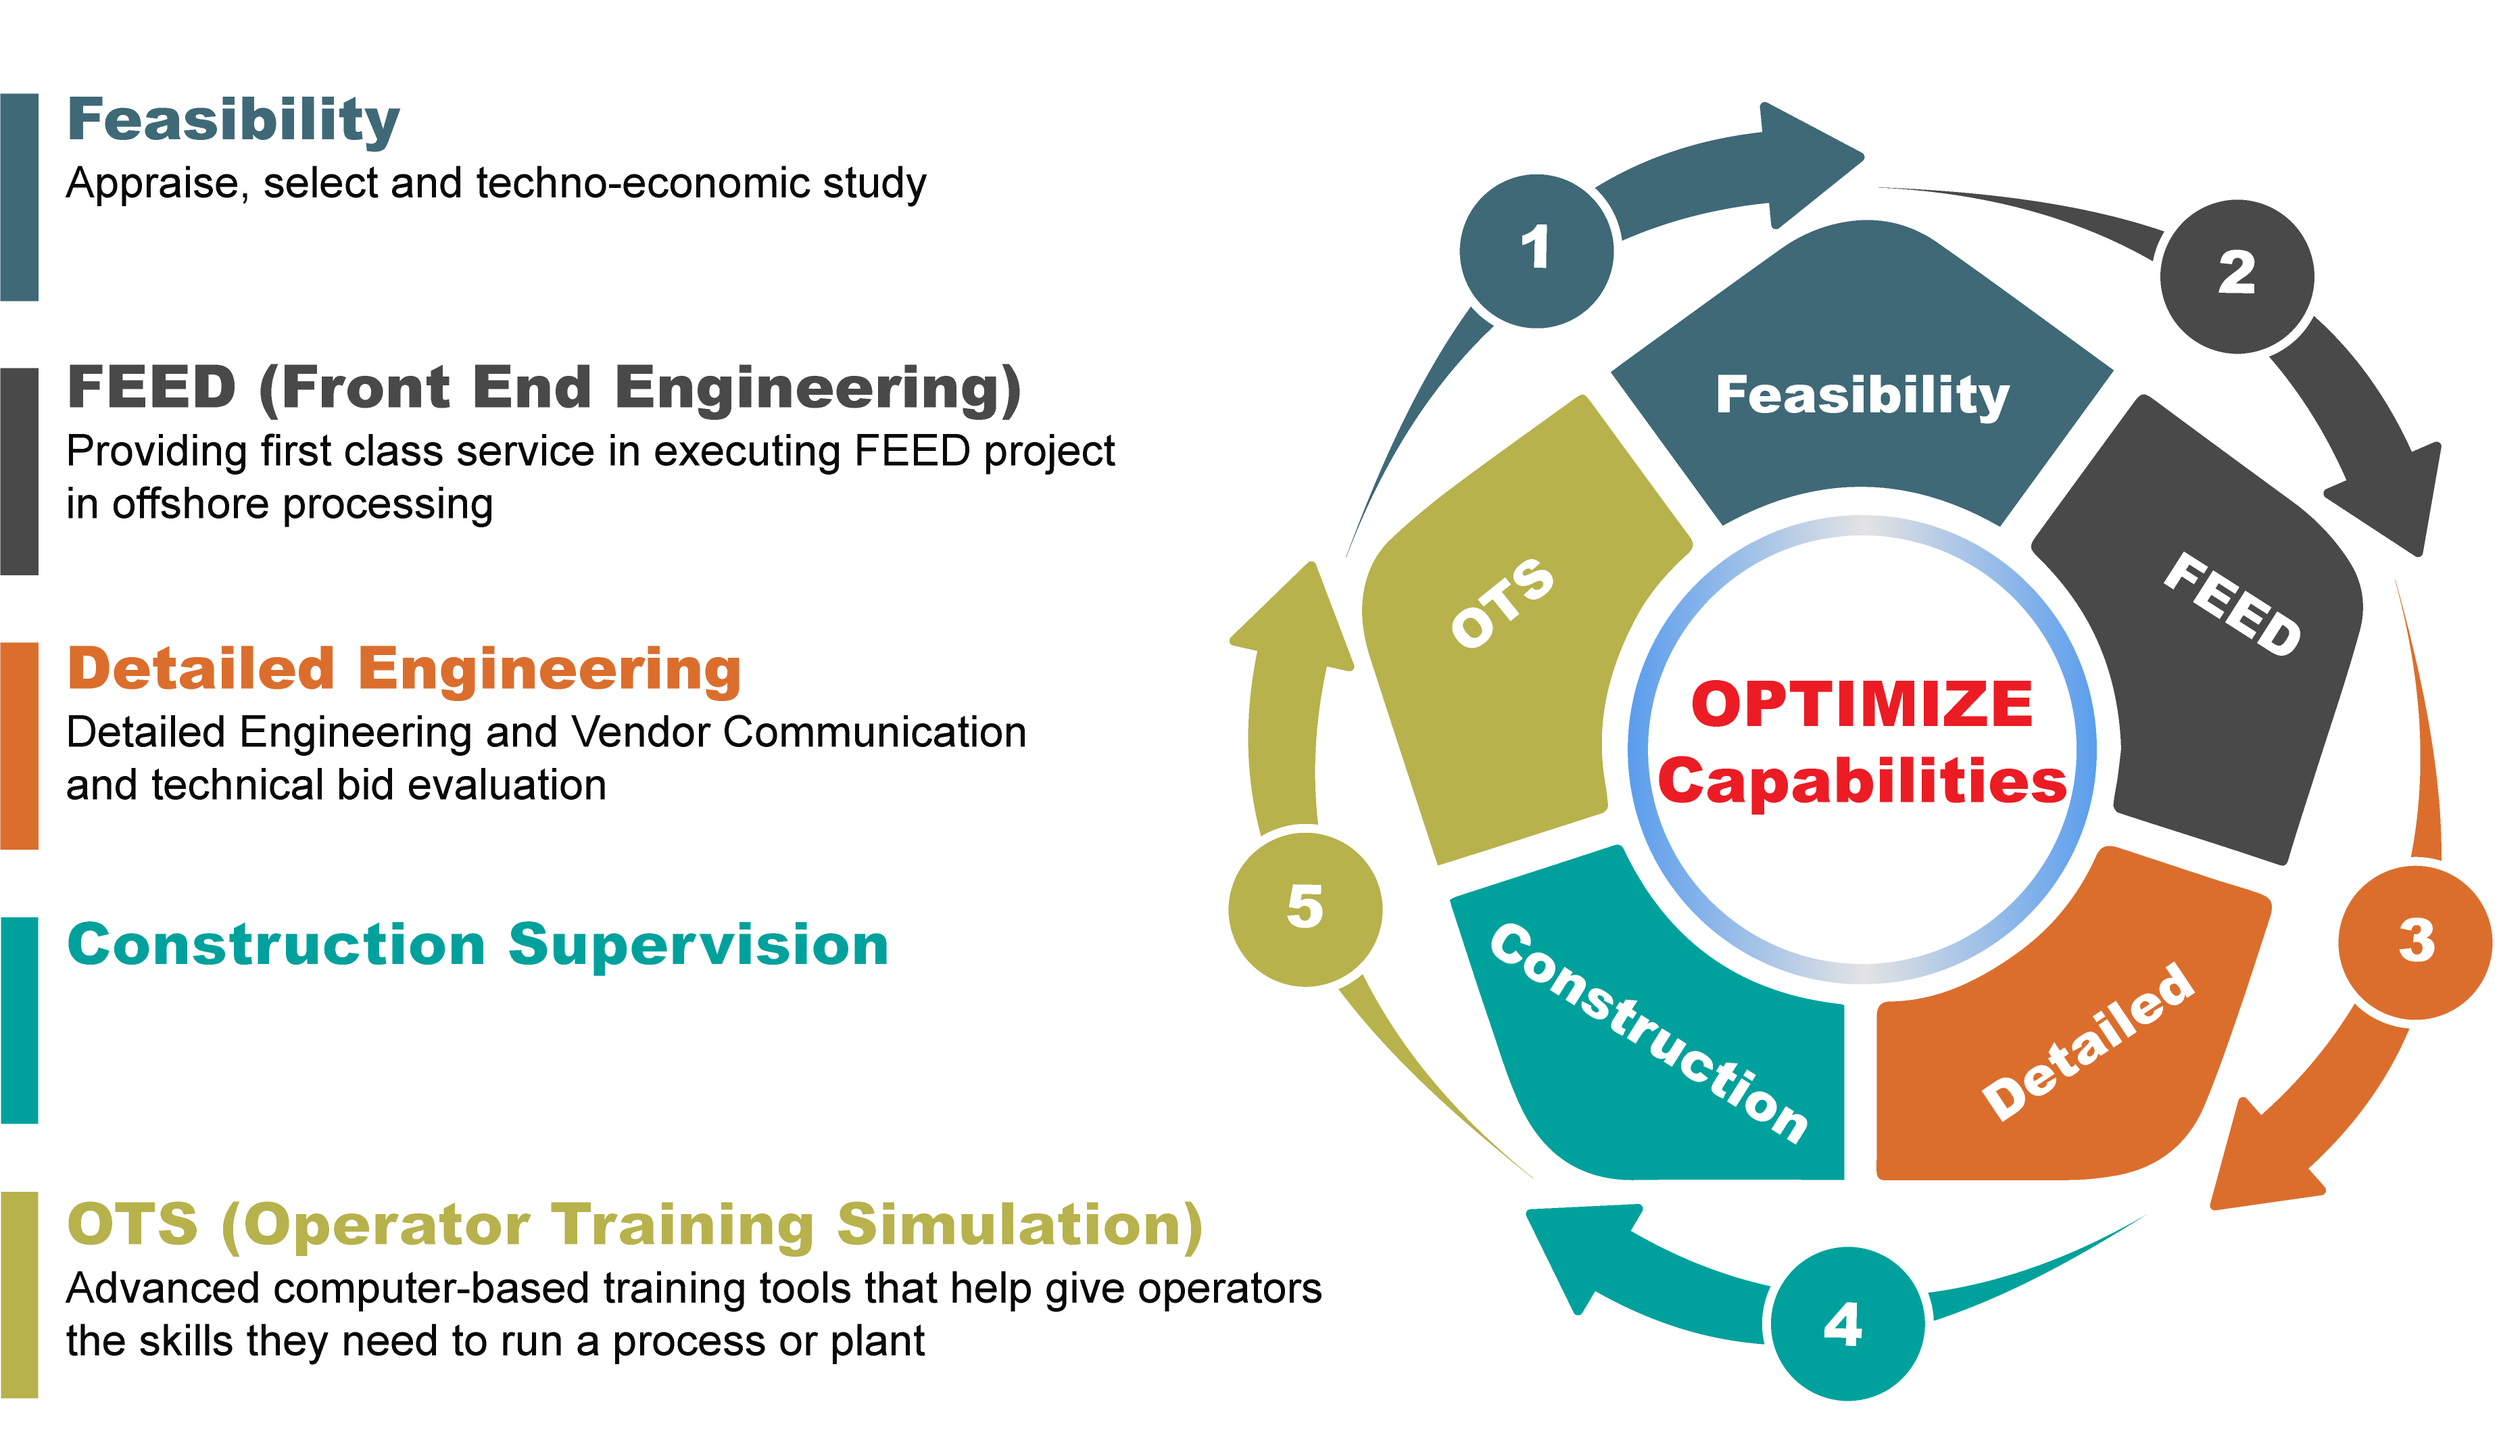
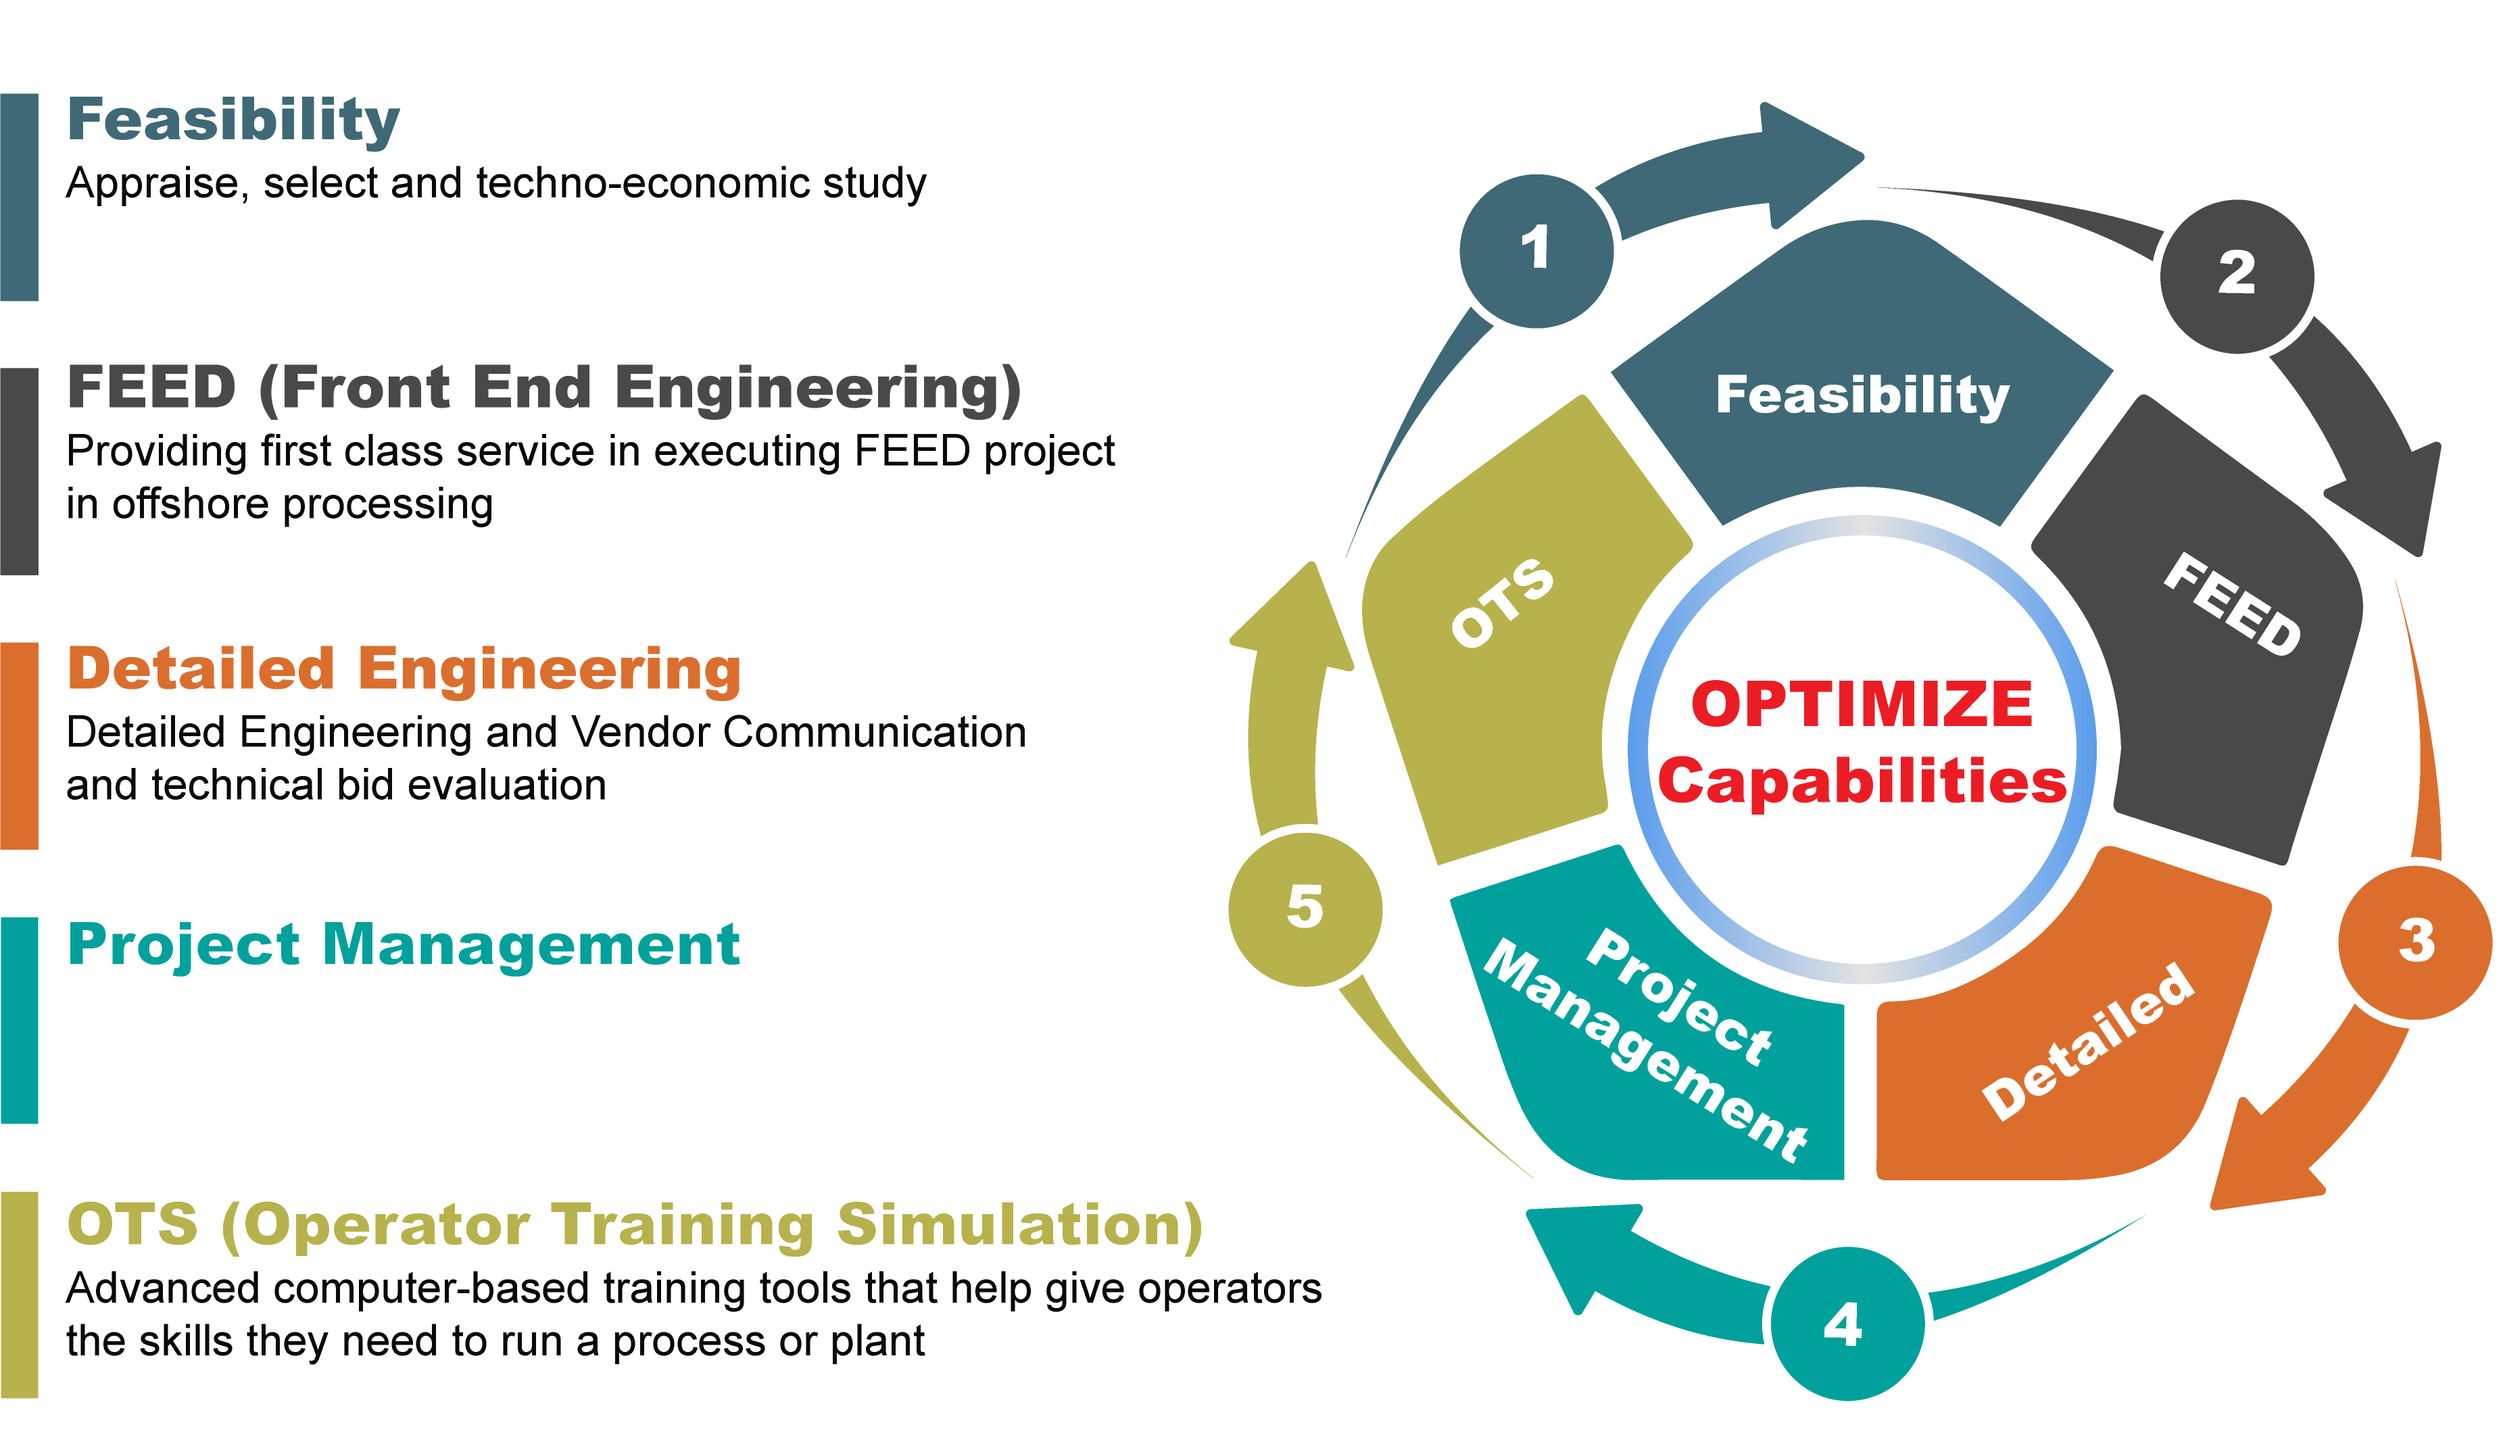
Emad Comments

Changed region(s): [[0.0311, 0.6162, 0.3733, 0.6779], [0.591, 0.6471, 0.7466, 0.8011]]

diff --git a/src/components/capabilities/Capabilities.js b/src/components/capabilities/Capabilities.js
@@ -48,7 +48,7 @@ export const Capabilities = (props) => (
         </Row>
         <Title titleType='sub-title' title='Feasibility' border='title-border' />
         <p className='capabilities-sub-title'>Machine Learning and Data Science</p>
-        <p className='capabilities-text'>OPTIMIZE Engineering with KAGERA has the capabilities to provide an integrated ML (Machine Learning) solutions. This bilateral cooperation entails data analytics, developing predictive models, deep learning and apply machine learning methods in oil and gas industry.</p>
+        <p className='capabilities-text'>OPTIMIZE Engineering with Kageera has the capabilities to provide an integrated ML (Machine Learning) solutions. This bilateral cooperation entails data analytics, developing predictive models, deep learning and apply machine learning methods in oil and gas industry.</p>
         <TextWithArrow text='Advanced and dynamic modeling using ML (Machine Learning) tools.' />
         <TextWithArrow text='Refinery Linear Programming for the best return of investment using GEKKO Dynamics.' />
         <TextWithArrow text='Applying Machine Learning algorithm on production facilities to improve and optimize the operating conditions and predict the potential downtime.' />
@@ -84,7 +84,7 @@ export const Capabilities = (props) => (
         <p className='capabilities-sub-title'>Detailed Engineering and Vendor Communication and technical bid evaluation</p>
         <p className='capabilities-text'>OPTIMIZE has the capabilities to technically evaluate vendors’ bid and assist the customer to make right decision for the most viable engineering options. OPTIMIZE process work flow in Detailed Engineering phase has been always appreciated from our customers.</p>
         <img src={detailed} alt='OPTIMIZE_Capabilities' />
-        <Title titleType='sub-title' title='Construction Supervision' border='title-border' />
+        <Title titleType='sub-title' title='Project Management' border='title-border' />
         <TextWithArrow text='OPTIMIZE supports the construction plans throughout the full lifecycle of the project to yield the greatest possible benefits to our customers.' />
         <TextWithArrow text='OPTIMIZE helps customers realize the maximum value of their project delivery by converting high-potential value options identified in the conceptual phase into fully defined, safe and successfully executed ones.' />
         <Title titleType='sub-title' title='OTS' border='title-border' />

diff --git a/src/components/services/ServicesContent/ServicesContent.js b/src/components/services/ServicesContent/ServicesContent.js
@@ -177,20 +177,8 @@ export const ServicesContent = props => {
           <TextWithArrow text='Inspection &amp; testing of equipment.' />
           <TextWithArrow text='Configuration management.' />
           <TextWithArrow text='Contract interface management.' />
-          <TextWithArrow text='Maintenance.' />
-          <TextWithArrow text='Construction and Completion.' />
-          <TextWithArrow text='Plant start-up and testing.' />
-          <TextWithArrow text='Plant operations.' />
-          <TextWithArrow text='Enabling cooperation among all participants in the project, OPTIMIZE employs proven, effective project management tools to control the project consistent with plan.' />
+          
 
-      {/* Supervision Level 4    */}
-        <p id='construction' className='services-title'>Construction Supervision</p>
-        <p className='services-text'>OPTIMIZE supports the construction plans throughout the full lifecycle of the project to yield the greatest possible benefits to our customers.</p>
-        <p className='services-text'>OPTIMIZE helps customers realize the maximum value of their project delivery by converting high-potential value options identified in the conceptual phase into fully defined, safe and successfully executed ones.</p>
-        <p className='services-sub-title'>Procurement and Expediting</p>
-        <TextWithArrow text='Vendors contacts and negotiations.' />
-        <TextWithArrow text='Selecting best scenario for combining local and overseas fabrication &amp; Packaging.' />
-        <TextWithArrow text='TBE (Technical Bid Evaluation).' />
 
     </div>
   );

diff --git a/src/components/common/footer/Footer.js b/src/components/common/footer/Footer.js
@@ -3,8 +3,6 @@ import { Container, Row, Col } from 'react-bootstrap';
 import { Link } from 'react-router-dom';
 import logo from '../../../assets/logo.png';
 import egypt from './egypt-flag.png';
-import qatar from './qater-flag.png';
-import syrbia from './syrbia-flag.png';
 import uk from './uk-flag.png';
 import './Footer.scss';
 
@@ -62,14 +60,7 @@ export const Footer = props => {
                 <img src={egypt} alt='Optimize-engineering'/>
                 <span>+201016296960</span>
               </div>
-              <div className="cell-number">
-                <img src={qatar} alt='Optimize-engineering'/>
-                <span>+97477198200</span>
-              </div>
-              <div className="cell-number">
-                <img src={syrbia} alt='Optimize-engineering'/>
-                <span>+381655255858</span>
-              </div>
+
               <div className="cell-number">
                 <img src={uk} alt='Optimize-engineering'/>
                 <span>+447500903775</span>

diff --git a/src/components/training/TrainingtCard/TrainingtCard.js b/src/components/training/TrainingtCard/TrainingtCard.js
@@ -1,6 +1,6 @@
 import React from 'react'
 import { Row, Col, Card } from 'react-bootstrap';
-import authProfile from './profile.png';
+
 import './TrainingtCard.scss';
 
 
@@ -23,9 +23,8 @@ export class TrainingtCard extends React.Component{
 
                     <Card.Title>{course.title}</Card.Title>
                     <div className='auth-wrapper'>
-                      <img src={authProfile} alt='Optimize Academy' />
+
                       <div className='auth-content'>
-                        <p>{course.auth}</p>
                         <span>{course.type}</span>
                         <span className='time'>{course.time}</span>
                       </div>

diff --git a/src/components/projects/Projects.js b/src/components/projects/Projects.js
@@ -125,7 +125,7 @@ export class Projects extends React.Component{
   render(){
     return(
       <div>
-        <Jumbotron jumboClass='projects-slide' title='Projects' text='OPTIMIZE team has participated in many several projects as below'/>
+        <Jumbotron jumboClass='projects-slide' title='Projects' text='OPTIMIZE team has participated in the following projects'/>
         <SectionWithBg ImageClass='whiteSection'>
           <div className='projects-wrapper'>
             <ProjectCard Projects={this.state.Projects}/>

diff --git a/src/components/services/Services.js b/src/components/services/Services.js
@@ -9,12 +9,21 @@ export class Services extends React.Component{
   constructor(props) {
     super(props)
     this.state = {
+      // current : window.pageYOffset
 
     }
   }
 
-  sideServicesHandler() {
-    console.log(window.pageYOffset);
+
+  componentDidUpdate() {
+
+    // const {current} = this.state
+    // const target = current -
+    window.scrollTo({
+      top: (window.pageYOffset - 75) ,
+      behavior: "smooth"
+    });
+
   }
 
   render(){

diff --git a/src/components/services/SideMenu/SideMenu.js b/src/components/services/SideMenu/SideMenu.js
@@ -74,10 +74,7 @@ const content=[
         label: 'Project Management',
         to: '#project',
     },
-    {
-        label: 'Construction Supervision',
-        to: '#construction',
-    },
+    
 ];
 
 export const SideMenu = props => {
